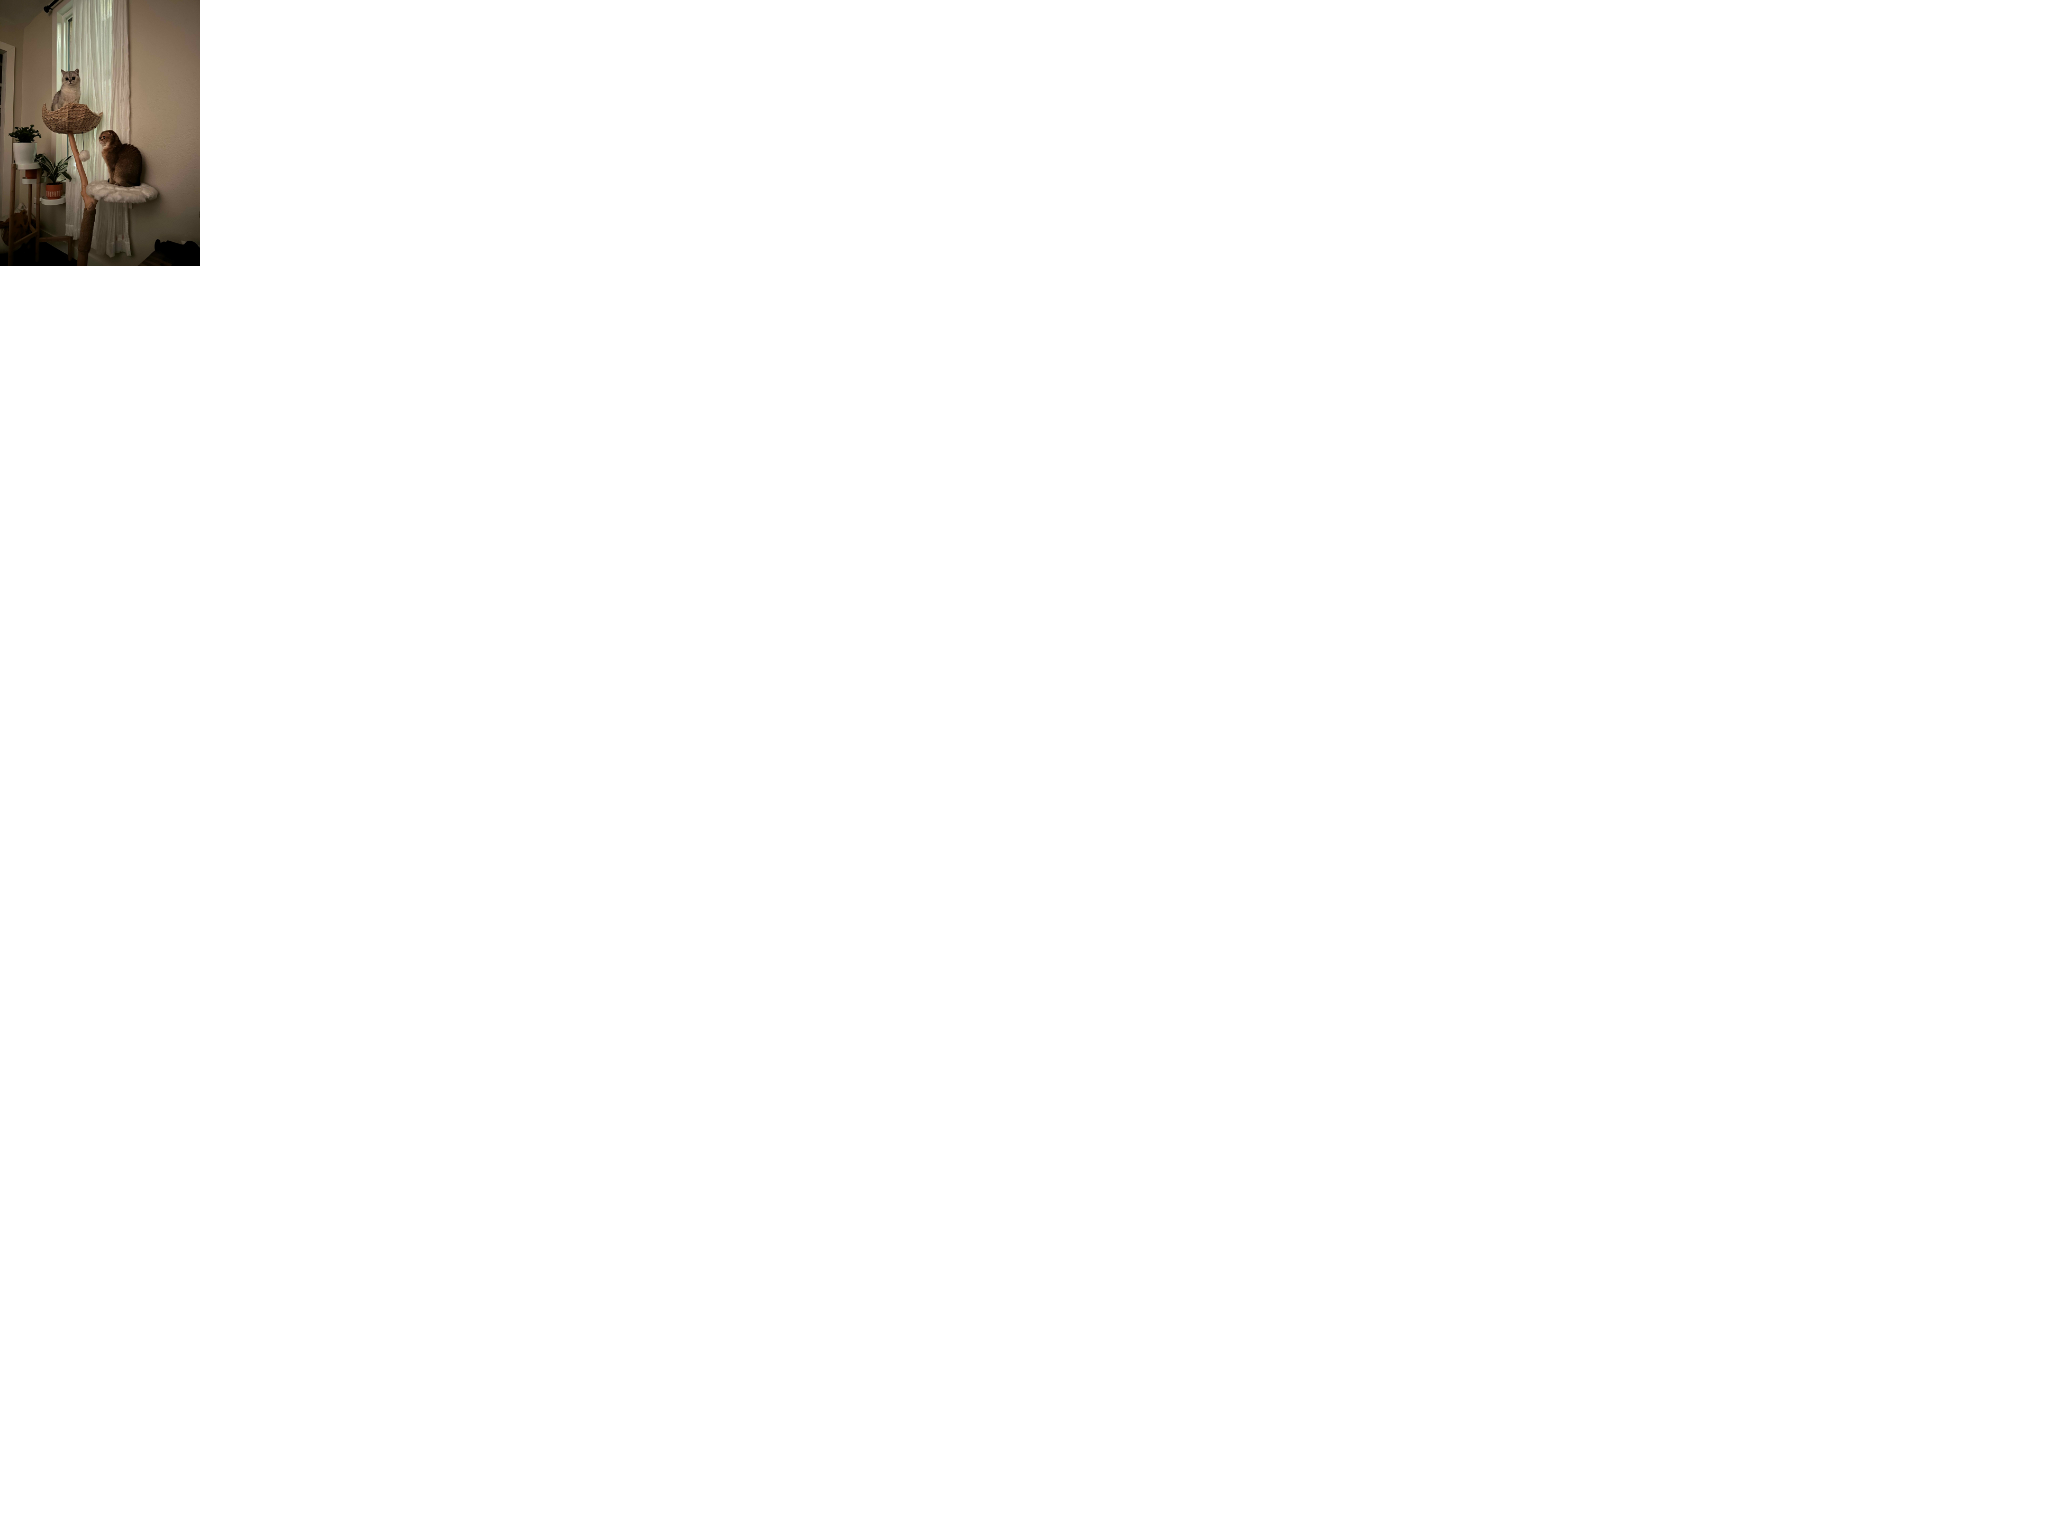
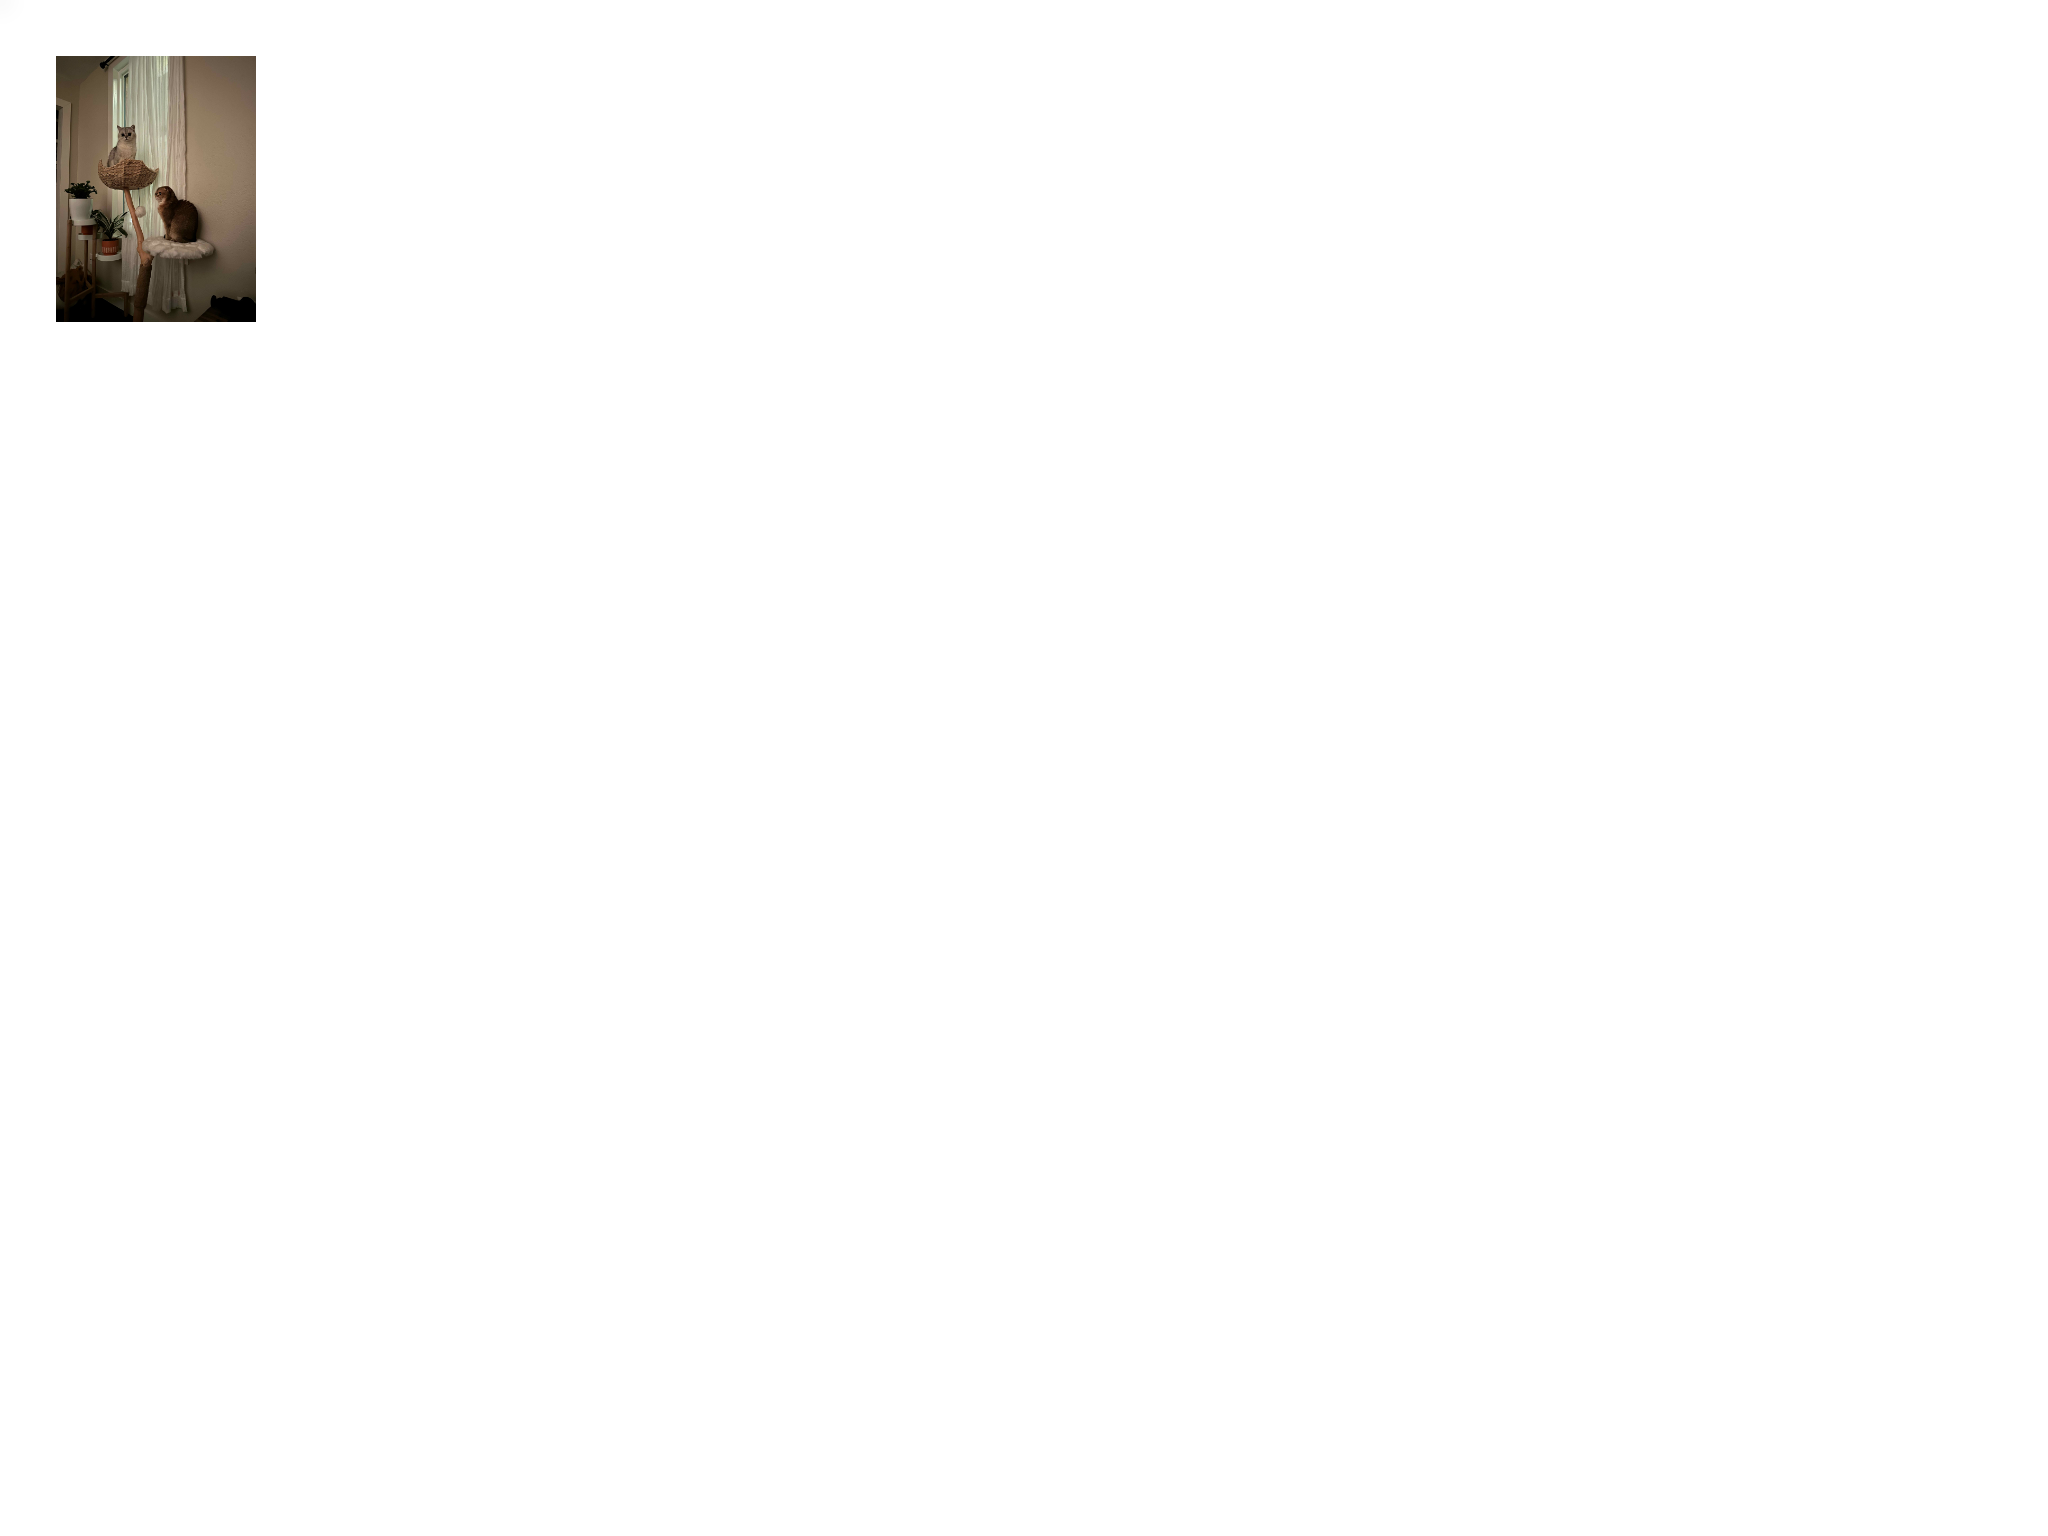
Fix lightbox test clip

Changed region(s): [[0.0, 0.0, 0.125, 0.2188]]

diff --git a/test/temba-lightbox.test.ts b/test/temba-lightbox.test.ts
@@ -16,8 +16,8 @@ describe('temba-lightbox', () => {
     );
 
     await assertScreenshot('lightbox/img', {
-      x: 28,
-      y: 28,
+      x: 0,
+      y: 0,
       width: 1024,
       height: 768
     });
@@ -26,8 +26,8 @@ describe('temba-lightbox', () => {
     lightbox.showElement(img as HTMLElement);
 
     await assertScreenshot('lightbox/img-zoomed', {
-      x: 28,
-      y: 28,
+      x: 0,
+      y: 0,
       width: 1024,
       height: 768
     });
